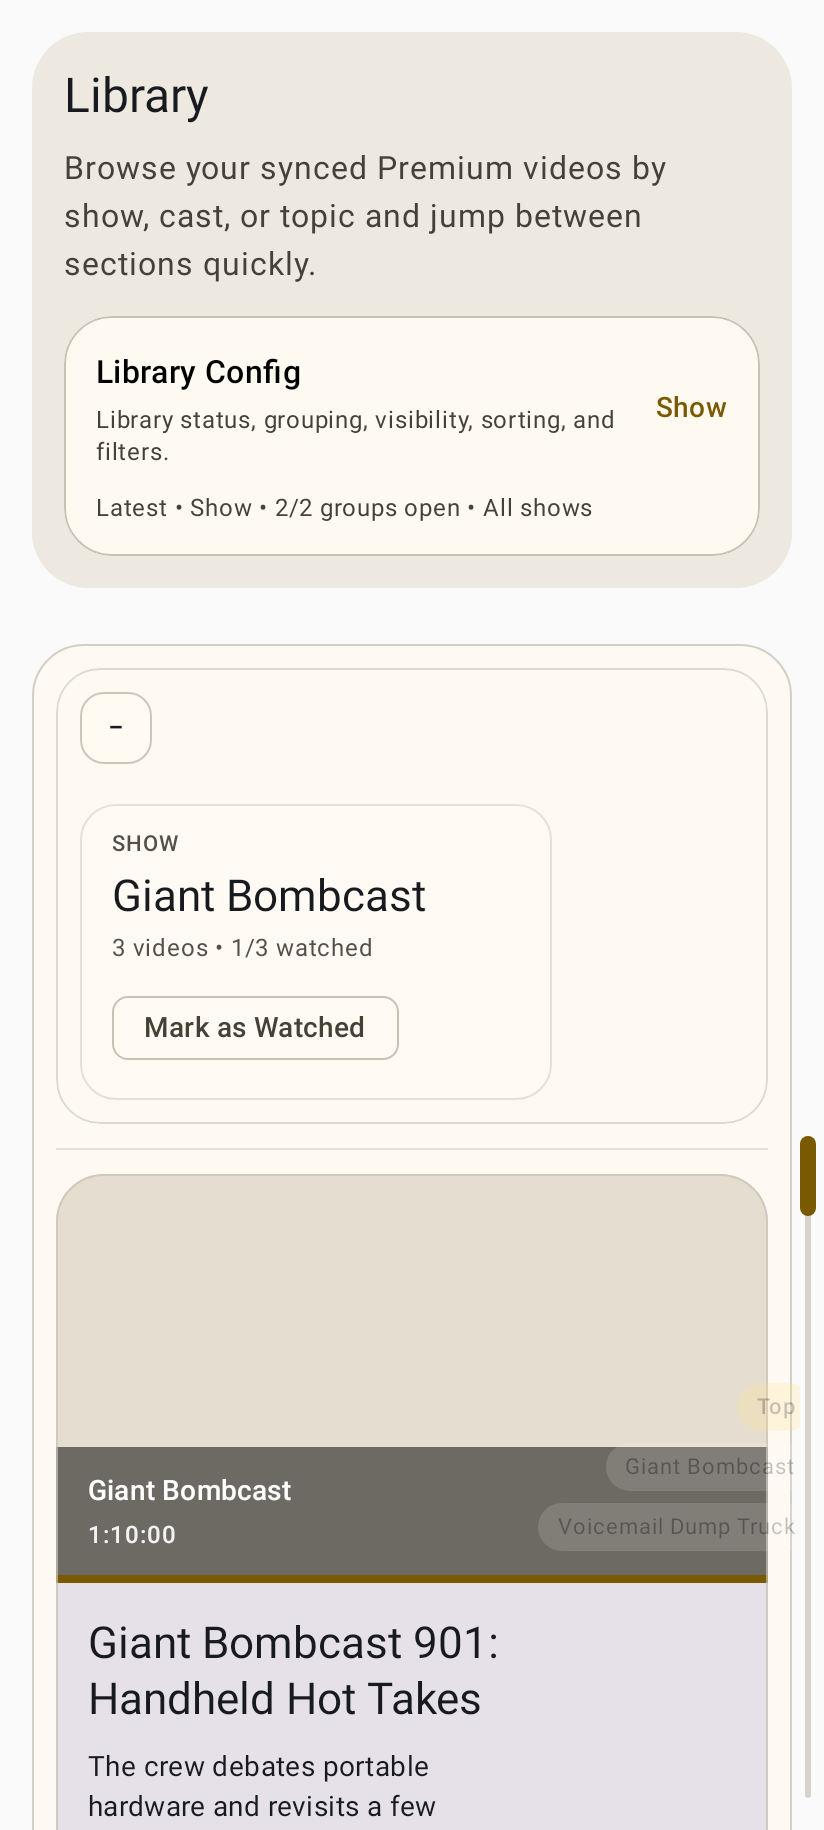
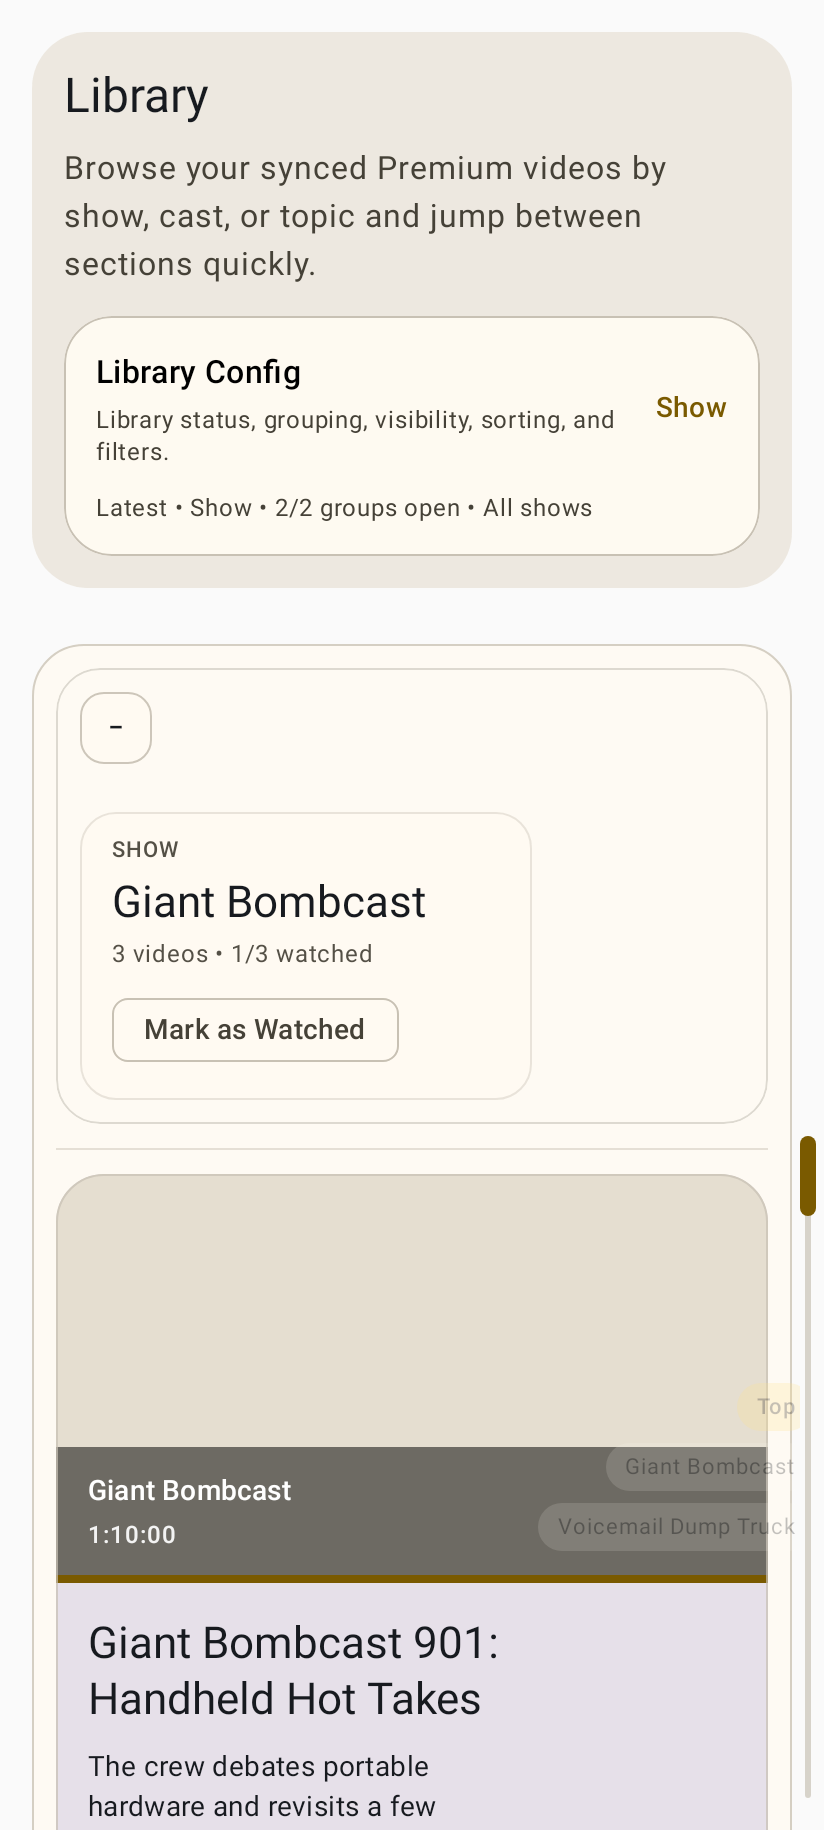
Make grouped header mosaics visibly art-forward

Changed region(s): [[0.1214, 0.4361, 0.5158, 0.5918]]

diff --git a/feature/library/src/main/java/com/looktube/feature/library/LibraryRoute.kt b/feature/library/src/main/java/com/looktube/feature/library/LibraryRoute.kt
@@ -472,6 +472,10 @@ private fun SeriesSectionBackdropSlices(
             .fillMaxSize()
             .background(MaterialTheme.colorScheme.surfaceVariant.copy(alpha = 0.18f)),
     ) {
+        SectionHeaderBackdropBaseImage(
+            video = section.videos.first(),
+            artAlpha = if (artAlpha >= 0.9f) 0.94f else artAlpha * 0.7f,
+        )
         val tileSpecs = remember(section.key) { groupHeaderBackdropTileSpecs(section.key) }
         tileSpecs.forEachIndexed { index, tile ->
             val video = section.videos[index % section.videos.size]
@@ -480,6 +484,7 @@ private fun SeriesSectionBackdropSlices(
                 sectionKey = section.key,
                 colorIndex = index,
                 artAlpha = artAlpha,
+                rotationDegrees = tile.rotationDegrees,
                 modifier = Modifier
                     .offset(
                         x = (maxWidth * tile.xFraction) - (GROUP_HEADER_BACKDROP_TILE_BLEED / 2),
@@ -493,15 +498,47 @@ private fun SeriesSectionBackdropSlices(
 }
 
 @Composable
+private fun SectionHeaderBackdropBaseImage(
+    video: VideoSummary,
+    artAlpha: Float,
+) {
+    Box(
+        modifier = Modifier.fillMaxSize(),
+    ) {
+        Box(
+            modifier = Modifier
+                .fillMaxSize()
+                .background(MaterialTheme.colorScheme.surfaceVariant.copy(alpha = 0.34f)),
+        )
+        if (!video.thumbnailUrl.isNullOrBlank()) {
+            AsyncImage(
+                model = video.thumbnailUrl,
+                contentDescription = null,
+                modifier = Modifier
+                    .fillMaxSize()
+                    .graphicsLayer(alpha = artAlpha),
+                contentScale = ContentScale.Crop,
+            )
+        }
+    }
+}
+
+@Composable
 private fun SectionHeaderBackdropPanel(
     video: VideoSummary,
     sectionKey: String,
     colorIndex: Int,
     artAlpha: Float,
+    rotationDegrees: Float,
     modifier: Modifier = Modifier,
 ) {
-    Box(
-        modifier = modifier,
+    Surface(
+        modifier = modifier.graphicsLayer { rotationZ = rotationDegrees },
+        shape = RoundedCornerShape(14.dp),
+        color = Color.Transparent,
+        tonalElevation = 0.dp,
+        shadowElevation = 2.dp,
+        border = BorderStroke(1.dp, MaterialTheme.colorScheme.outlineVariant.copy(alpha = 0.18f)),
     ) {
         Box(
             modifier = Modifier
@@ -518,6 +555,11 @@ private fun SectionHeaderBackdropPanel(
                 contentScale = ContentScale.Crop,
             )
         }
+        Box(
+            modifier = Modifier
+                .fillMaxSize()
+                .background(Color.Black.copy(alpha = 0.08f)),
+        )
     }
 }
 
@@ -731,9 +773,9 @@ private fun SeriesSectionHeaderBackdrop(
                         colors = if (isExpanded) {
                             listOf(
                                 Color.Transparent,
-                                baseSurface.copy(alpha = 0.015f),
-                                baseSurface.copy(alpha = 0.05f),
-                                baseSurface.copy(alpha = 0.1f),
+                                Color.Transparent,
+                                baseSurface.copy(alpha = 0.04f),
+                                baseSurface.copy(alpha = 0.14f),
                             )
                         } else {
                             listOf(
@@ -752,9 +794,9 @@ private fun SeriesSectionHeaderBackdrop(
                     Brush.horizontalGradient(
                         colors = if (isExpanded) {
                             listOf(
-                                baseSurface.copy(alpha = 0.05f),
-                                baseSurface.copy(alpha = 0.015f),
-                                baseSurface.copy(alpha = 0.05f),
+                                baseSurface.copy(alpha = 0.28f),
+                                baseSurface.copy(alpha = 0.08f),
+                                Color.Transparent,
                             )
                         } else {
                             listOf(
@@ -1048,6 +1090,7 @@ internal data class GroupHeaderBackdropTileSpec(
     val yFraction: Float,
     val widthFraction: Float,
     val heightFraction: Float,
+    val rotationDegrees: Float = 0f,
 )
 internal fun collapsedHeaderPeekCount(videoCount: Int): Int = videoCount.coerceIn(0, GROUP_HEADER_MAX_PEEK_COUNT)
 internal fun collapsedHeaderPeekOffsets(videoCount: Int): List<Dp> =
@@ -1069,6 +1112,7 @@ private const val GROUP_HEADER_COLLAPSED_ART_ALPHA = 0.16f
 private val GROUP_HEADER_BACKDROP_TILE_BLEED = 12.dp
 private const val GROUP_HEADER_BACKDROP_POSITION_JITTER = 0.045f
 private const val GROUP_HEADER_BACKDROP_SIZE_JITTER = 0.04f
+private const val GROUP_HEADER_BACKDROP_ROTATION_JITTER = 5f
 private val GROUP_HEADER_BACKDROP_BASE_TILE_SPECS = listOf(
     GroupHeaderBackdropTileSpec(xFraction = -0.08f, yFraction = -0.06f, widthFraction = 0.24f, heightFraction = 0.30f),
     GroupHeaderBackdropTileSpec(xFraction = 0.1f, yFraction = -0.08f, widthFraction = 0.22f, heightFraction = 0.26f),
@@ -1078,14 +1122,9 @@ private val GROUP_HEADER_BACKDROP_BASE_TILE_SPECS = listOf(
     GroupHeaderBackdropTileSpec(xFraction = 0.82f, yFraction = -0.05f, widthFraction = 0.20f, heightFraction = 0.30f),
     GroupHeaderBackdropTileSpec(xFraction = -0.06f, yFraction = 0.22f, widthFraction = 0.22f, heightFraction = 0.30f),
     GroupHeaderBackdropTileSpec(xFraction = 0.14f, yFraction = 0.2f, widthFraction = 0.28f, heightFraction = 0.34f),
-    GroupHeaderBackdropTileSpec(xFraction = 0.38f, yFraction = 0.22f, widthFraction = 0.22f, heightFraction = 0.28f),
-    GroupHeaderBackdropTileSpec(xFraction = 0.56f, yFraction = 0.2f, widthFraction = 0.22f, heightFraction = 0.34f),
-    GroupHeaderBackdropTileSpec(xFraction = 0.74f, yFraction = 0.22f, widthFraction = 0.28f, heightFraction = 0.30f),
-    GroupHeaderBackdropTileSpec(xFraction = -0.04f, yFraction = 0.54f, widthFraction = 0.26f, heightFraction = 0.34f),
-    GroupHeaderBackdropTileSpec(xFraction = 0.2f, yFraction = 0.56f, widthFraction = 0.22f, heightFraction = 0.24f),
-    GroupHeaderBackdropTileSpec(xFraction = 0.4f, yFraction = 0.5f, widthFraction = 0.26f, heightFraction = 0.36f),
-    GroupHeaderBackdropTileSpec(xFraction = 0.62f, yFraction = 0.54f, widthFraction = 0.22f, heightFraction = 0.28f),
-    GroupHeaderBackdropTileSpec(xFraction = 0.8f, yFraction = 0.52f, widthFraction = 0.22f, heightFraction = 0.34f),
+    GroupHeaderBackdropTileSpec(xFraction = 0.4f, yFraction = 0.52f, widthFraction = 0.22f, heightFraction = 0.28f),
+    GroupHeaderBackdropTileSpec(xFraction = 0.62f, yFraction = 0.54f, widthFraction = 0.26f, heightFraction = 0.34f),
+    GroupHeaderBackdropTileSpec(xFraction = 0.82f, yFraction = 0.5f, widthFraction = 0.20f, heightFraction = 0.30f),
 )
 private val GroupHeaderBackdropPalette = listOf(
     Color(0xFF44556B),
@@ -1116,6 +1155,7 @@ internal fun groupHeaderBackdropTileSpecs(sectionKey: String): List<GroupHeaderB
                 .coerceIn(0.18f, 0.32f),
             heightFraction = (tile.heightFraction + random.centeredJitter(GROUP_HEADER_BACKDROP_SIZE_JITTER))
                 .coerceIn(0.22f, 0.4f),
+            rotationDegrees = random.centeredJitter(GROUP_HEADER_BACKDROP_ROTATION_JITTER),
         )
     }
 }
@@ -1590,7 +1630,7 @@ private fun SeriesSectionHeader(
             .clickable(onClick = onToggleExpanded),
         shape = shape,
         color = if (isExpanded) {
-            MaterialTheme.colorScheme.surface.copy(alpha = 0.02f)
+            Color.Transparent
         } else {
             MaterialTheme.colorScheme.surface.copy(alpha = 0.82f)
         },
@@ -1642,21 +1682,16 @@ private fun SeriesSectionHeader(
                 if (isExpanded) {
                     Surface(
                         modifier = Modifier
-                            .padding(
-                                end = cappedGroupedContentEndPadding(
-                                    textEndPadding = textEndPadding,
-                                    maxPadding = GROUPED_EXPANDED_INFO_PLATE_MAX_END_PADDING,
-                                ),
-                            )
-                            .fillMaxWidth(),
+                            .fillMaxWidth(0.68f)
+                            .widthIn(max = 332.dp),
                         shape = RoundedCornerShape(18.dp),
-                        color = MaterialTheme.colorScheme.surface.copy(alpha = 0.84f),
+                        color = MaterialTheme.colorScheme.surface.copy(alpha = 0.88f),
                         tonalElevation = 0.dp,
-                        border = BorderStroke(1.dp, MaterialTheme.colorScheme.outlineVariant.copy(alpha = 0.46f)),
+                        border = BorderStroke(1.dp, MaterialTheme.colorScheme.outlineVariant.copy(alpha = 0.4f)),
                     ) {
                         Column(
-                            modifier = Modifier.padding(horizontal = 16.dp, vertical = 12.dp),
-                            verticalArrangement = Arrangement.spacedBy(8.dp),
+                            modifier = Modifier.padding(horizontal = 16.dp, vertical = 11.dp),
+                            verticalArrangement = Arrangement.spacedBy(6.dp),
                         ) {
                             Column(
                                 verticalArrangement = Arrangement.spacedBy(4.dp),

diff --git a/feature/library/src/test/java/com/looktube/feature/library/LibraryGroupedHeaderGeometryTest.kt b/feature/library/src/test/java/com/looktube/feature/library/LibraryGroupedHeaderGeometryTest.kt
@@ -25,8 +25,7 @@ class LibraryGroupedHeaderGeometryTest {
     @Test
     fun backdropTileSpecsStayWithinExpectedBounds() {
         val specs = groupHeaderBackdropTileSpecs("show:Portal Pals")
-
-        assertEquals(16, specs.size)
+        assertEquals(11, specs.size)
         assertTrue(specs.all { it.xFraction in -0.12f..0.86f })
         assertTrue(specs.all { it.yFraction in -0.12f..0.72f })
         assertTrue(specs.all { it.widthFraction in 0.18f..0.32f })
